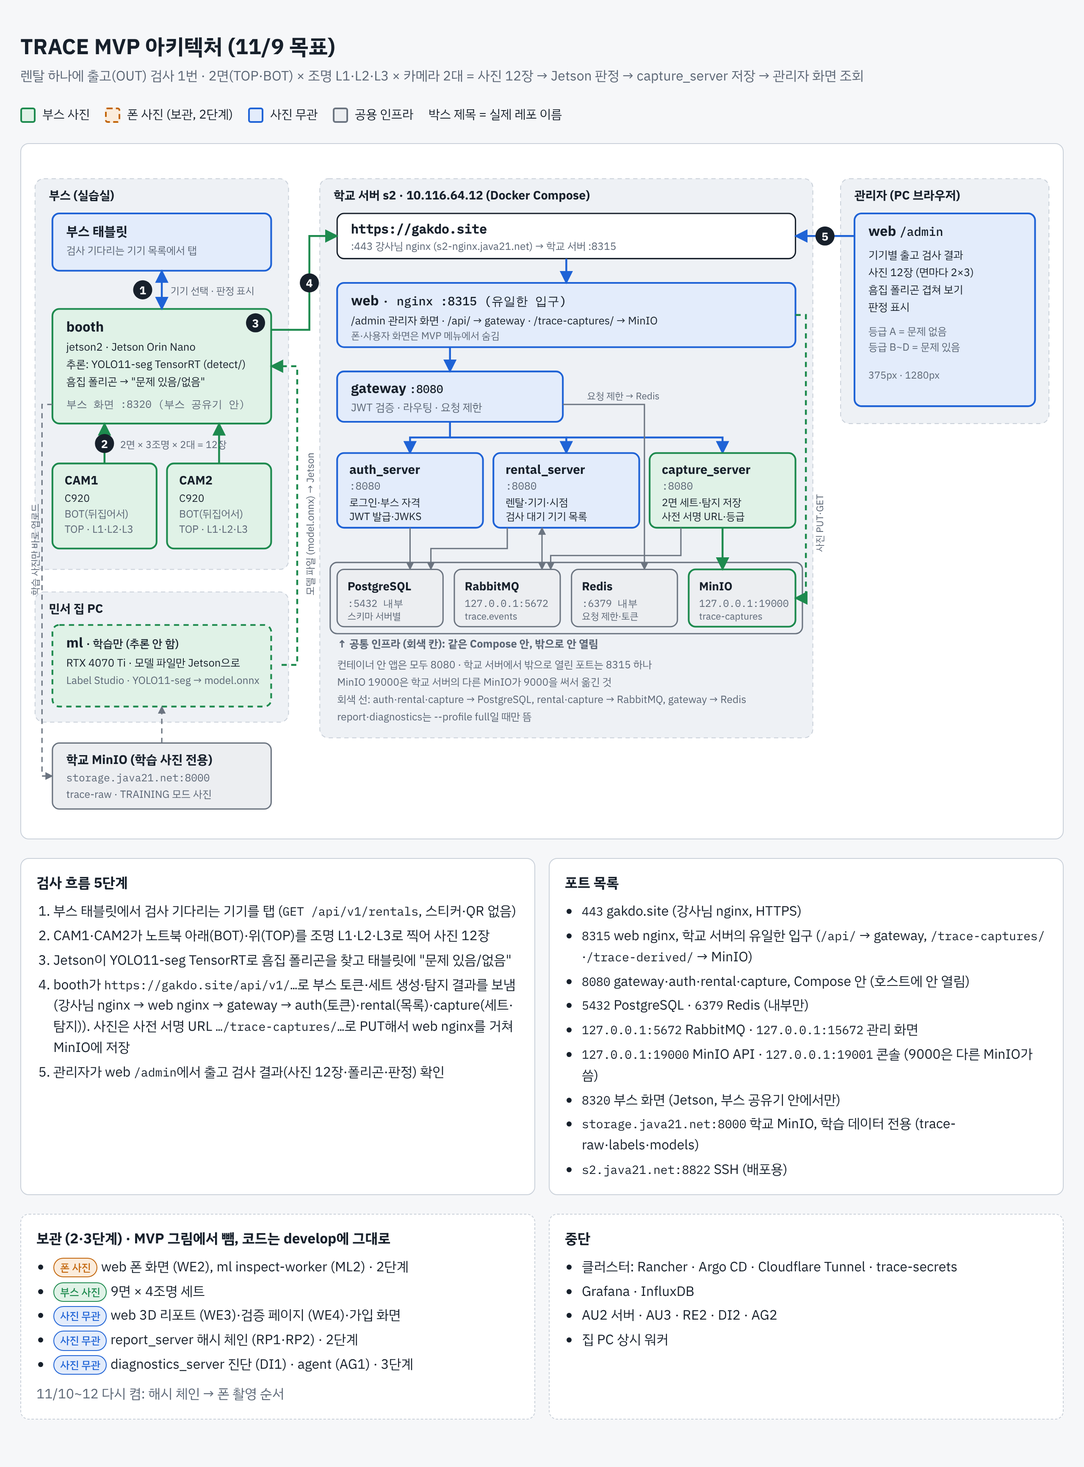
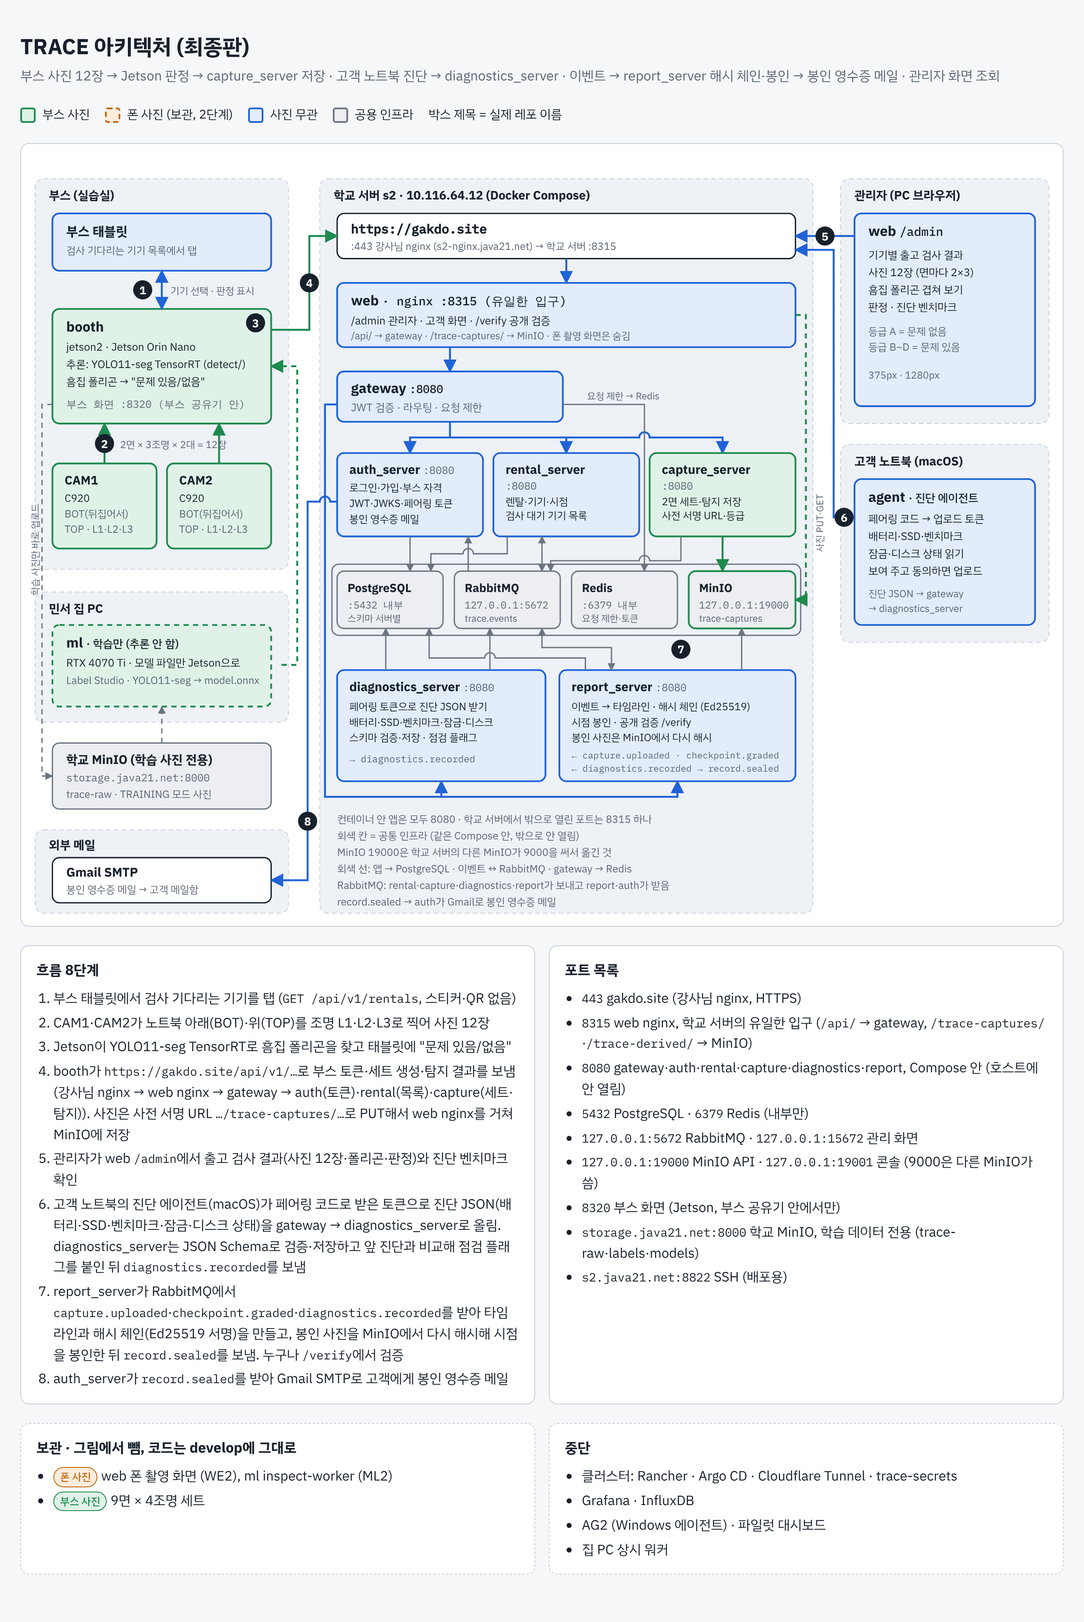
docs(contest): F1 아키텍처 그림 최종판 — report·diagnostics·agent 실선, 봉인 영수증 메일 추가
Claude-Session: https://claude.ai/code/session_01Vmzd2w49ZbEND8ejXHJxM7

diff --git a/contest/figures/F1-mvp-architecture.html b/contest/figures/F1-mvp-architecture.html
@@ -3,10 +3,10 @@
 <head>
 <meta charset="utf-8">
 <meta name="viewport" content="width=device-width, initial-scale=1">
-<title>TRACE MVP 아키텍처</title>
+<title>TRACE 아키텍처</title>
 <link rel="stylesheet" href="https://fonts.googleapis.com/css2?family=IBM+Plex+Sans+KR:wght@400;500;700&family=IBM+Plex+Mono:wght@400;500&display=swap">
 <style>
-/* 레이아웃: 위 범례 → 한 장짜리 구성도(SVG) → 흐름 5단계 → 보관·중단 목록 */
+/* 레이아웃: 위 범례 → 한 장짜리 구성도(SVG) → 흐름 8단계 → 보관·중단 목록 */
 :root{
   --bg:#f6f7f9; --panel:#ffffff; --fg:#17202b; --muted:#5b6675; --line:#c9d0d9; --zone:#eef1f5;
   --booth:#1d8a4e; --booth-t:#e0f2e7;
@@ -47,6 +47,7 @@ svg text{fill:var(--fg)} svg .m{fill:var(--muted)} svg .mono{font-family:var(--m
 .ai{stroke:var(--infra);stroke-width:1.5;fill:none}
 .dash{stroke-dasharray:6 5}
 .tb{fill:var(--booth)} .tn{fill:var(--none)} .ti{fill:var(--infra)}
+.ibox{fill:none;stroke:var(--infra);stroke-width:1.5}
 .step{fill:var(--fg)} .stept{fill:var(--panel);font-weight:700;font-size:13px}
 .cols{display:grid;grid-template-columns:repeat(auto-fit,minmax(300px,1fr));gap:16px}
 .card{background:var(--panel);border:1px solid var(--line);border-radius:10px;padding:16px 18px;min-width:0}
@@ -64,8 +65,8 @@ code{font-family:var(--mono);font-size:.88em}
 
 <div class="wrap">
   <header>
-    <h1>TRACE MVP 아키텍처 (11/9 목표)</h1>
-    <p class="sub">렌탈 하나에 출고(OUT) 검사 1번 · 2면(TOP·BOT) × 조명 L1·L2·L3 × 카메라 2대 = 사진 12장 → Jetson 판정 → capture_server 저장 → 관리자 화면 조회</p>
+    <h1>TRACE 아키텍처 (최종판)</h1>
+    <p class="sub">부스 사진 12장 → Jetson 판정 → capture_server 저장 · 고객 노트북 진단 → diagnostics_server · 이벤트 → report_server 해시 체인·봉인 → 봉인 영수증 메일 · 관리자 화면 조회</p>
   </header>
 
   <div class="legend" aria-label="범례">
@@ -77,14 +78,13 @@ code{font-family:var(--mono);font-size:.88em}
   </div>
 
   <div class="figure">
-  <svg viewBox="0 0 1200 800" role="img" aria-label="TRACE MVP 구성도">
+  <svg viewBox="0 0 1200 900" role="img" aria-label="TRACE 구성도 (최종판)">
     <defs>
       <marker id="hb" viewBox="0 0 10 10" refX="9" refY="5" markerWidth="7" markerHeight="7" orient="auto-start-reverse"><path d="M0 0L10 5L0 10z" class="tb"/></marker>
       <marker id="hn" viewBox="0 0 10 10" refX="9" refY="5" markerWidth="7" markerHeight="7" orient="auto-start-reverse"><path d="M0 0L10 5L0 10z" class="tn"/></marker>
       <marker id="hp" viewBox="0 0 10 10" refX="9" refY="5" markerWidth="7" markerHeight="7" orient="auto-start-reverse"><path d="M0 0L10 5L0 10z" style="fill:var(--phone)"/></marker>
       <marker id="hi" viewBox="0 0 10 10" refX="9" refY="5" markerWidth="6" markerHeight="6" orient="auto-start-reverse"><path d="M0 0L10 5L0 10z" class="ti"/></marker>
     </defs>
-
     <!-- 부스 구역 -->
     <rect class="zone" x="16" y="40" width="292" height="450" rx="10"/>
     <text x="32" y="64" font-size="14" font-weight="700">부스 (실습실)</text>
@@ -125,7 +125,6 @@ code{font-family:var(--mono);font-size:.88em}
     <text x="52" y="602" font-size="12.5">RTX 4070 Ti · 모델 파일만 Jetson으로</text>
     <text x="52" y="622" font-size="12" class="m">Label Studio · YOLO11-seg → model.onnx</text>
     <path class="ab dash" d="M300 600H318V256H288" marker-end="url(#hb)"/>
-    <text x="337" y="520" font-size="11.5" class="m" transform="rotate(-90 337 520)">모델 파일 (model.onnx) → Jetson</text>
 
     <!-- 학교 MinIO (학습 사진 전용) -->
     <rect class="i" x="36" y="690" width="252" height="76" rx="8"/>
@@ -136,8 +135,15 @@ code{font-family:var(--mono);font-size:.88em}
     <text x="20" y="520" font-size="11" class="m" transform="rotate(-90 20 520)">학습 사진만 바로 업로드</text>
     <path class="ai dash" d="M162 690V648" marker-end="url(#hi)"/>
 
+    <!-- 외부 메일 -->
+    <rect class="zone" x="16" y="790" width="292" height="96" rx="10"/>
+    <text x="32" y="812" font-size="14" font-weight="700">외부 메일</text>
+    <rect class="e" x="36" y="822" width="252" height="52" rx="8"/>
+    <text x="52" y="844" font-size="14.5" font-weight="700">Gmail SMTP</text>
+    <text x="52" y="863" font-size="12" class="m">봉인 영수증 메일 → 고객 메일함</text>
+
     <!-- 학교 서버 -->
-    <rect class="zone" x="344" y="40" width="568" height="644" rx="10"/>
+    <rect class="zone" x="344" y="40" width="568" height="846" rx="10"/>
     <text x="360" y="64" font-size="14" font-weight="700">학교 서버 s2 · 10.116.64.12 (Docker Compose)</text>
 
     <rect class="e" x="364" y="80" width="528" height="52" rx="8"/>
@@ -146,70 +152,102 @@ code{font-family:var(--mono);font-size:.88em}
 
     <rect class="n" x="364" y="160" width="528" height="74" rx="8"/>
     <text x="380" y="186" font-size="16" font-weight="700">web <tspan class="mono" font-size="14" font-weight="500">· nginx :8315 (유일한 입구)</tspan></text>
-    <text x="380" y="208" font-size="12.5">/admin 관리자 화면 · /api/ → gateway · /trace-captures/ → MinIO</text>
-    <text x="380" y="225" font-size="11.5" class="m">폰·사용자 화면은 MVP 메뉴에서 숨김</text>
+    <text x="380" y="208" font-size="12.5">/admin 관리자 · 고객 화면 · /verify 공개 검증</text>
+    <text x="380" y="225" font-size="11.5" class="m">/api/ → gateway · /trace-captures/ → MinIO · 폰 촬영 화면은 숨김</text>
     <path class="an" d="M628 132V160" marker-end="url(#hn)"/>
 
     <rect class="n" x="364" y="262" width="260" height="58" rx="8"/>
     <text x="380" y="287" font-size="16" font-weight="700">gateway <tspan class="mono" font-size="13" font-weight="500">:8080</tspan></text>
     <text x="380" y="308" font-size="12.5" class="m">JWT 검증 · 라우팅 · 요청 제한</text>
     <path class="an" d="M494 234V262" marker-end="url(#hn)"/>
+    <!-- gateway → auth·rental·capture -->
     <path class="an" d="M494 320V338H448V356" marker-end="url(#hn)"/>
     <path class="an" d="M494 338H628V356" marker-end="url(#hn)"/>
-    <path class="an" d="M628 338H808V356" marker-end="url(#hn)"/>
+    <path class="an" d="M628 338H712A6 6 0 0 1 724 338H808V356" marker-end="url(#hn)"/>
+    <!-- gateway → diagnostics·report (왼쪽 레일) -->
+    <path class="an" d="M364 300H350V752H756V734" marker-end="url(#hn)"/>
+    <path class="an" d="M484 752V734" marker-end="url(#hn)"/>
 
-    <rect class="n" x="364" y="356" width="168" height="86" rx="8"/>
-    <text x="378" y="380" font-size="14.5" font-weight="700">auth_server</text>
-    <text x="378" y="398" font-size="12" class="mono m">:8080</text>
-    <text x="378" y="417" font-size="12">로그인·부스 자격</text>
-    <text x="378" y="433" font-size="12">JWT 발급·JWKS</text>
+    <rect class="n" x="364" y="356" width="168" height="96" rx="8"/>
+    <text x="378" y="380" font-size="14.5" font-weight="700">auth_server <tspan class="mono m" font-size="12" font-weight="400">:8080</tspan></text>
+    <text x="378" y="400" font-size="12">로그인·가입·부스 자격</text>
+    <text x="378" y="418" font-size="12">JWT·JWKS·페어링 토큰</text>
+    <text x="378" y="436" font-size="12">봉인 영수증 메일</text>
 
-    <rect class="n" x="544" y="356" width="168" height="86" rx="8"/>
+    <rect class="n" x="544" y="356" width="168" height="96" rx="8"/>
     <text x="558" y="380" font-size="14.5" font-weight="700">rental_server</text>
     <text x="558" y="398" font-size="12" class="mono m">:8080</text>
-    <text x="558" y="417" font-size="12">렌탈·기기·시점</text>
-    <text x="558" y="433" font-size="12">검사 대기 기기 목록</text>
+    <text x="558" y="416" font-size="12">렌탈·기기·시점</text>
+    <text x="558" y="432" font-size="12">검사 대기 기기 목록</text>
 
-    <rect class="b" x="724" y="356" width="168" height="86" rx="8"/>
+    <rect class="b" x="724" y="356" width="168" height="96" rx="8"/>
     <text x="738" y="380" font-size="14.5" font-weight="700">capture_server</text>
     <text x="738" y="398" font-size="12" class="mono m">:8080</text>
-    <text x="738" y="417" font-size="12">2면 세트·탐지 저장</text>
-    <text x="738" y="433" font-size="12">사전 서명 URL·등급</text>
+    <text x="738" y="416" font-size="12">2면 세트·탐지 저장</text>
+    <text x="738" y="432" font-size="12">사전 서명 URL·등급</text>
 
     <!-- 인프라 -->
-    <text x="364" y="580" font-size="12.5" font-weight="700" class="m">↑ 공통 인프라 (회색 칸): 같은 Compose 안, 밖으로 안 열림</text>
-    <rect x="356" y="482" width="544" height="82" rx="8" style="fill:none;stroke:var(--infra);stroke-width:1.5"/>
-    <rect class="i" x="364" y="490" width="122" height="66" rx="8"/>
-    <text x="376" y="514" font-size="13.5" font-weight="700">PostgreSQL</text>
-    <text x="376" y="533" font-size="11.5" class="mono m">:5432 내부</text>
-    <text x="376" y="548" font-size="11" class="m">스키마 서버별</text>
-    <rect class="i" x="499" y="490" width="122" height="66" rx="8"/>
-    <text x="511" y="514" font-size="13.5" font-weight="700">RabbitMQ</text>
-    <text x="511" y="533" font-size="11.5" class="mono m">127.0.0.1:5672</text>
-    <text x="511" y="548" font-size="11" class="m">trace.events</text>
-    <rect class="i" x="634" y="490" width="122" height="66" rx="8"/>
-    <text x="646" y="514" font-size="13.5" font-weight="700">Redis</text>
-    <text x="646" y="533" font-size="11.5" class="mono m">:6379 내부</text>
-    <text x="646" y="548" font-size="11" class="m">요청 제한·토큰</text>
-    <rect class="ib" x="769" y="490" width="123" height="66" rx="8"/>
-    <text x="781" y="514" font-size="13.5" font-weight="700">MinIO</text>
-    <text x="781" y="533" font-size="11.5" class="mono m">127.0.0.1:19000</text>
-    <text x="781" y="548" font-size="11" class="m">trace-captures</text>
+    <rect x="358" y="484" width="540" height="82" rx="8" class="ibox"/>
+    <rect class="i" x="364" y="492" width="122" height="66" rx="8"/>
+    <text x="376" y="516" font-size="13.5" font-weight="700">PostgreSQL</text>
+    <text x="376" y="535" font-size="11.5" class="mono m">:5432 내부</text>
+    <text x="376" y="550" font-size="11" class="m">스키마 서버별</text>
+    <rect class="i" x="499" y="492" width="122" height="66" rx="8"/>
+    <text x="511" y="516" font-size="13.5" font-weight="700">RabbitMQ</text>
+    <text x="511" y="535" font-size="11.5" class="mono m">127.0.0.1:5672</text>
+    <text x="511" y="550" font-size="11" class="m">trace.events</text>
+    <rect class="i" x="634" y="492" width="122" height="66" rx="8"/>
+    <text x="646" y="516" font-size="13.5" font-weight="700">Redis</text>
+    <text x="646" y="535" font-size="11.5" class="mono m">:6379 내부</text>
+    <text x="646" y="550" font-size="11" class="m">요청 제한·토큰</text>
+    <rect class="ib" x="769" y="492" width="123" height="66" rx="8"/>
+    <text x="781" y="516" font-size="13.5" font-weight="700">MinIO</text>
+    <text x="781" y="535" font-size="11.5" class="mono m">127.0.0.1:19000</text>
+    <text x="781" y="550" font-size="11" class="m">trace-captures</text>
 
-    <path class="ab" d="M808 442V490" marker-end="url(#hb)"/>
-    <path class="ab dash" d="M892 197H904V523H892" marker-end="url(#hb)"/>
+    <!-- 위 줄 앱 ↔ 인프라 -->
+    <path class="ab" d="M808 452V492" marker-end="url(#hb)"/>
+    <path class="ab dash" d="M892 197H904V525H892" marker-end="url(#hb)"/>
     <text x="924" y="470" font-size="11" class="m" transform="rotate(-90 924 470)">사진 PUT·GET</text>
-    <path class="ai" d="M448 442V490" marker-end="url(#hi)"/>
-    <path class="ai" d="M560 442V466H472V490" marker-end="url(#hi)"/>
-    <path class="ai" d="M600 442V490" marker-start="url(#hi)" marker-end="url(#hi)"/>
-    <path class="ai" d="M760 442V474H610V490" marker-end="url(#hi)"/>
-    <path class="ai" d="M624 300H718V490" marker-end="url(#hi)"/>
+    <path class="ai" d="M448 452V492" marker-end="url(#hi)"/>
+    <path class="ai" d="M560 452V472H521A6 6 0 0 0 509 472H472V492" marker-end="url(#hi)"/>
+    <path class="ai" d="M515 492V452" marker-end="url(#hi)"/>
+    <path class="ai" d="M600 452V492" marker-start="url(#hi)" marker-end="url(#hi)"/>
+    <path class="ai" d="M760 452V480H724A6 6 0 0 0 712 480H610V492" marker-end="url(#hi)"/>
+    <path class="ai" d="M624 300H718V492" marker-end="url(#hi)"/>
     <text x="652" y="294" font-size="11" class="m">요청 제한 → Redis</text>
 
-    <text x="364" y="604" font-size="12" class="m">컨테이너 안 앱은 모두 8080 · 학교 서버에서 밖으로 열린 포트는 8315 하나</text>
-    <text x="364" y="624" font-size="12" class="m">MinIO 19000은 학교 서버의 다른 MinIO가 9000을 써서 옮긴 것</text>
-    <text x="364" y="644" font-size="12" class="m">회색 선: auth·rental·capture → PostgreSQL, rental·capture → RabbitMQ, gateway → Redis</text>
-    <text x="364" y="664" font-size="12" class="m">report·diagnostics는 --profile full일 때만 뜸</text>
+    <!-- 아래 줄: diagnostics·report -->
+    <rect class="n" x="364" y="606" width="240" height="128" rx="8"/>
+    <text x="378" y="630" font-size="14.5" font-weight="700">diagnostics_server <tspan class="mono m" font-size="12" font-weight="400">:8080</tspan></text>
+    <text x="378" y="652" font-size="12">페어링 토큰으로 진단 JSON 받기</text>
+    <text x="378" y="670" font-size="12">배터리·SSD·벤치마크·잠금·디스크</text>
+    <text x="378" y="688" font-size="12">스키마 검증·저장 · 점검 플래그</text>
+    <text x="378" y="712" font-size="11" class="mono m">→ diagnostics.recorded</text>
+
+    <rect class="n" x="620" y="606" width="272" height="128" rx="8"/>
+    <text x="634" y="630" font-size="14.5" font-weight="700">report_server <tspan class="mono m" font-size="12" font-weight="400">:8080</tspan></text>
+    <text x="634" y="652" font-size="12">이벤트 → 타임라인 · 해시 체인 (Ed25519)</text>
+    <text x="634" y="670" font-size="12">시점 봉인 · 공개 검증 /verify</text>
+    <text x="634" y="688" font-size="12">봉인 사진은 MinIO에서 다시 해시</text>
+    <text x="634" y="708" font-size="10.5" class="mono m">← capture.uploaded · checkpoint.graded</text>
+    <text x="634" y="723" font-size="10.5" class="mono m">← diagnostics.recorded  → record.sealed</text>
+
+    <path class="ai" d="M420 606V558" marker-end="url(#hi)"/>
+    <path class="ai" d="M540 606V558" marker-end="url(#hi)"/>
+    <path class="ai" d="M600 558V580H680V606" marker-start="url(#hi)" marker-end="url(#hi)"/>
+    <path class="ai" d="M650 606V592H546A6 6 0 0 0 534 592H470V558" marker-end="url(#hi)"/>
+    <path class="ai" d="M830 606V558" marker-end="url(#hi)"/>
+
+    <!-- auth → Gmail SMTP -->
+    <path class="an" d="M364 412H356A6 6 0 0 0 344 412H330V848H288" marker-end="url(#hn)"/>
+
+    <text x="364" y="782" font-size="12" class="m">컨테이너 안 앱은 모두 8080 · 학교 서버에서 밖으로 열린 포트는 8315 하나</text>
+    <text x="364" y="801" font-size="12" class="m">회색 칸 = 공통 인프라 (같은 Compose 안, 밖으로 안 열림)</text>
+    <text x="364" y="820" font-size="12" class="m">MinIO 19000은 학교 서버의 다른 MinIO가 9000을 써서 옮긴 것</text>
+    <text x="364" y="839" font-size="12" class="m">회색 선: 앱 → PostgreSQL · 이벤트 ↔ RabbitMQ · gateway → Redis</text>
+    <text x="364" y="858" font-size="12" class="m">RabbitMQ: rental·capture·diagnostics·report가 보내고 report·auth가 받음</text>
+    <text x="364" y="877" font-size="12" class="m">record.sealed → auth가 Gmail로 봉인 영수증 메일</text>
 
     <!-- 관리자 -->
     <rect class="zone" x="944" y="40" width="240" height="282" rx="10"/>
@@ -219,11 +257,24 @@ code{font-family:var(--mono);font-size:.88em}
     <text x="976" y="132" font-size="12.5">기기별 출고 검사 결과</text>
     <text x="976" y="152" font-size="12.5">사진 12장 (면마다 2×3)</text>
     <text x="976" y="172" font-size="12.5">흠집 폴리곤 겹쳐 보기</text>
-    <text x="976" y="192" font-size="12.5">판정 표시</text>
+    <text x="976" y="192" font-size="12.5">판정 · 진단 벤치마크</text>
     <text x="976" y="220" font-size="12" class="m">등급 A = 문제 없음</text>
     <text x="976" y="238" font-size="12" class="m">등급 B~D = 문제 있음</text>
     <text x="976" y="270" font-size="11.5" class="m">375px · 1280px</text>
     <path class="an" d="M960 106H892" marker-end="url(#hn)"/>
+
+    <!-- 고객 노트북: 진단 에이전트 -->
+    <rect class="zone" x="944" y="346" width="240" height="228" rx="10"/>
+    <text x="960" y="370" font-size="14" font-weight="700">고객 노트북 (macOS)</text>
+    <rect class="n" x="960" y="386" width="208" height="168" rx="8"/>
+    <text x="976" y="412" font-size="16" font-weight="700">agent <tspan font-size="13" font-weight="500">· 진단 에이전트</tspan></text>
+    <text x="976" y="436" font-size="12.5">페어링 코드 → 업로드 토큰</text>
+    <text x="976" y="456" font-size="12.5">배터리·SSD·벤치마크</text>
+    <text x="976" y="476" font-size="12.5">잠금·디스크 상태 읽기</text>
+    <text x="976" y="496" font-size="12.5">보여 주고 동의하면 업로드</text>
+    <text x="976" y="522" font-size="11.5" class="m">진단 JSON → gateway</text>
+    <text x="976" y="539" font-size="11.5" class="m">→ diagnostics_server</text>
+    <path class="an" d="M960 430H936V122H892" marker-end="url(#hn)"/>
 
     <!-- 부스 → 서버 -->
     <path class="ab" d="M288 214H332V106H364" marker-end="url(#hb)"/>
@@ -234,18 +285,24 @@ code{font-family:var(--mono);font-size:.88em}
     <g><circle class="step" cx="270" cy="206" r="11"/><text x="270" y="211" text-anchor="middle" class="stept">3</text></g>
     <g><circle class="step" cx="332" cy="160" r="11"/><text x="332" y="165" text-anchor="middle" class="stept">4</text></g>
     <g><circle class="step" cx="926" cy="106" r="11"/><text x="926" y="111" text-anchor="middle" class="stept">5</text></g>
+    <g><circle class="step" cx="948" cy="430" r="11"/><text x="948" y="435" text-anchor="middle" class="stept">6</text></g>
+    <g><circle class="step" cx="760" cy="582" r="11"/><text x="760" y="587" text-anchor="middle" class="stept">7</text></g>
+    <g><circle class="step" cx="330" cy="780" r="11"/><text x="330" y="785" text-anchor="middle" class="stept">8</text></g>
   </svg>
   </div>
 
   <div class="cols">
     <section class="card">
-      <h2>검사 흐름 5단계</h2>
+      <h2>흐름 8단계</h2>
       <ol>
         <li>부스 태블릿에서 검사 기다리는 기기를 탭 (<code>GET /api/v1/rentals</code>, 스티커·QR 없음)</li>
         <li>CAM1·CAM2가 노트북 아래(BOT)·위(TOP)를 조명 L1·L2·L3로 찍어 사진 12장</li>
         <li>Jetson이 YOLO11-seg TensorRT로 흠집 폴리곤을 찾고 태블릿에 "문제 있음/없음"</li>
         <li>booth가 <code>https://gakdo.site/api/v1/…</code>로 부스 토큰·세트 생성·탐지 결과를 보냄 (강사님 nginx → web nginx → gateway → auth(토큰)·rental(목록)·capture(세트·탐지)). 사진은 사전 서명 URL <code>…/trace-captures/…</code>로 PUT해서 web nginx를 거쳐 MinIO에 저장</li>
-        <li>관리자가 web <code>/admin</code>에서 출고 검사 결과(사진 12장·폴리곤·판정) 확인</li>
+        <li>관리자가 web <code>/admin</code>에서 출고 검사 결과(사진 12장·폴리곤·판정)와 진단 벤치마크 확인</li>
+        <li>고객 노트북의 진단 에이전트(macOS)가 페어링 코드로 받은 토큰으로 진단 JSON(배터리·SSD·벤치마크·잠금·디스크 상태)을 gateway → diagnostics_server로 올림. diagnostics_server는 JSON Schema로 검증·저장하고 앞 진단과 비교해 점검 플래그를 붙인 뒤 <code>diagnostics.recorded</code>를 보냄</li>
+        <li>report_server가 RabbitMQ에서 <code>capture.uploaded</code>·<code>checkpoint.graded</code>·<code>diagnostics.recorded</code>를 받아 타임라인과 해시 체인(Ed25519 서명)을 만들고, 봉인 사진을 MinIO에서 다시 해시해 시점을 봉인한 뒤 <code>record.sealed</code>를 보냄. 누구나 <code>/verify</code>에서 검증</li>
+        <li>auth_server가 <code>record.sealed</code>를 받아 Gmail SMTP로 고객에게 봉인 영수증 메일</li>
       </ol>
     </section>
     <section class="card">
@@ -253,7 +310,7 @@ code{font-family:var(--mono);font-size:.88em}
       <ul>
         <li><code>443</code> gakdo.site (강사님 nginx, HTTPS)</li>
         <li><code>8315</code> web nginx, 학교 서버의 유일한 입구 (<code>/api/</code> → gateway, <code>/trace-captures/</code>·<code>/trace-derived/</code> → MinIO)</li>
-        <li><code>8080</code> gateway·auth·rental·capture, Compose 안 (호스트에 안 열림)</li>
+        <li><code>8080</code> gateway·auth·rental·capture·diagnostics·report, Compose 안 (호스트에 안 열림)</li>
         <li><code>5432</code> PostgreSQL · <code>6379</code> Redis (내부만)</li>
         <li><code>127.0.0.1:5672</code> RabbitMQ · <code>127.0.0.1:15672</code> 관리 화면</li>
         <li><code>127.0.0.1:19000</code> MinIO API · <code>127.0.0.1:19001</code> 콘솔 (9000은 다른 MinIO가 씀)</li>
@@ -266,22 +323,18 @@ code{font-family:var(--mono);font-size:.88em}
 
   <div class="cols">
     <section class="card shelf">
-      <h2>보관 (2·3단계) · MVP 그림에서 뺌, 코드는 develop에 그대로</h2>
+      <h2>보관 · 그림에서 뺌, 코드는 develop에 그대로</h2>
       <ul>
-        <li><span class="tag p">폰 사진</span>web 폰 화면 (WE2), ml inspect-worker (ML2) · 2단계</li>
+        <li><span class="tag p">폰 사진</span>web 폰 촬영 화면 (WE2), ml inspect-worker (ML2)</li>
         <li><span class="tag b">부스 사진</span>9면 × 4조명 세트</li>
-        <li><span class="tag n">사진 무관</span>web 3D 리포트 (WE3)·검증 페이지 (WE4)·가입 화면</li>
-        <li><span class="tag n">사진 무관</span>report_server 해시 체인 (RP1·RP2) · 2단계</li>
-        <li><span class="tag n">사진 무관</span>diagnostics_server 진단 (DI1) · agent (AG1) · 3단계</li>
       </ul>
-      <p class="sub" style="margin-top:10px">11/10~12 다시 켬: 해시 체인 → 폰 촬영 순서</p>
     </section>
     <section class="card shelf">
       <h2>중단</h2>
       <ul>
         <li>클러스터: Rancher · Argo CD · Cloudflare Tunnel · trace-secrets</li>
         <li>Grafana · InfluxDB</li>
-        <li>AU2 서버 · AU3 · RE2 · DI2 · AG2</li>
+        <li>AG2 (Windows 에이전트) · 파일럿 대시보드</li>
         <li>집 PC 상시 워커</li>
       </ul>
     </section>
